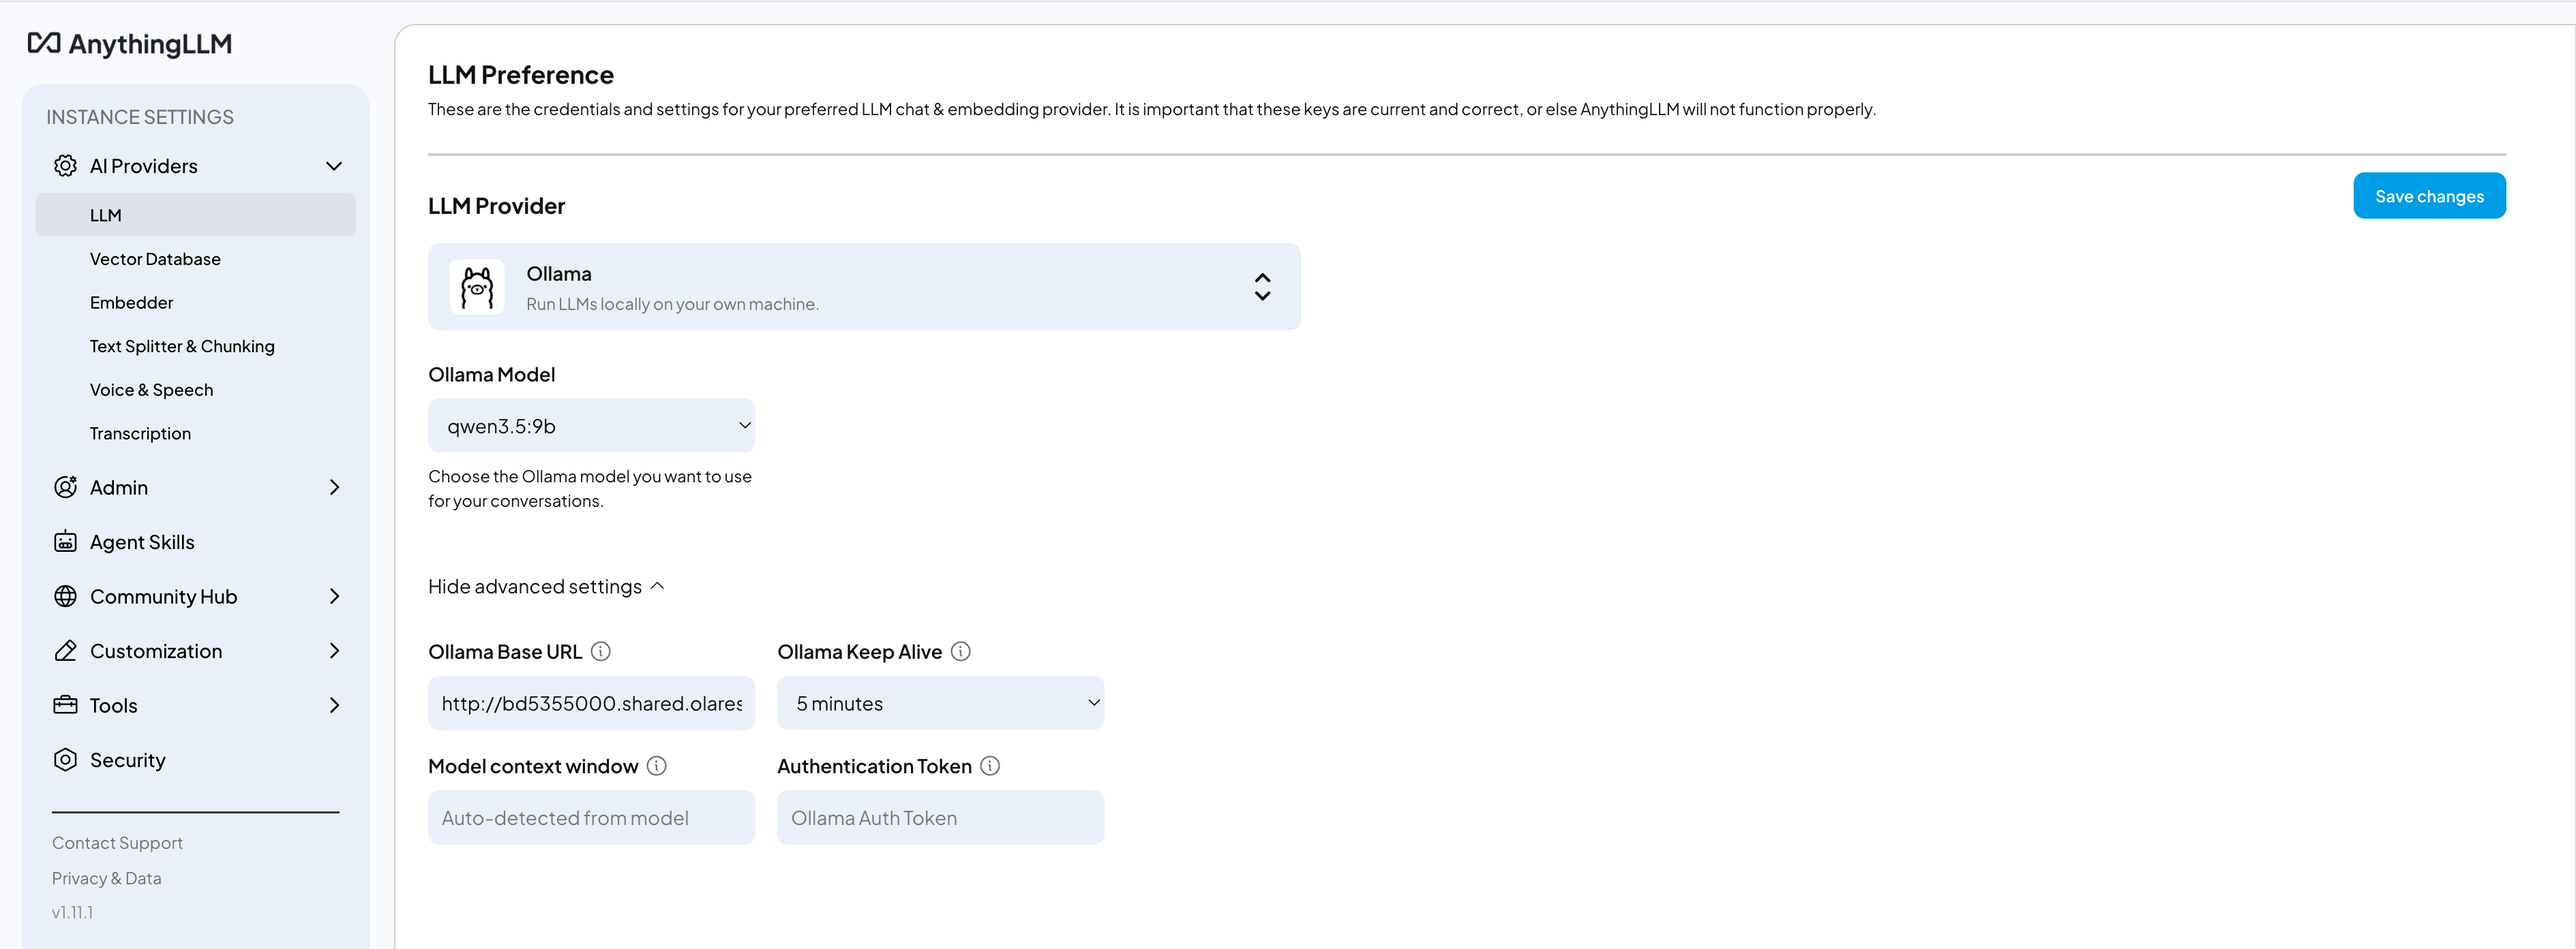
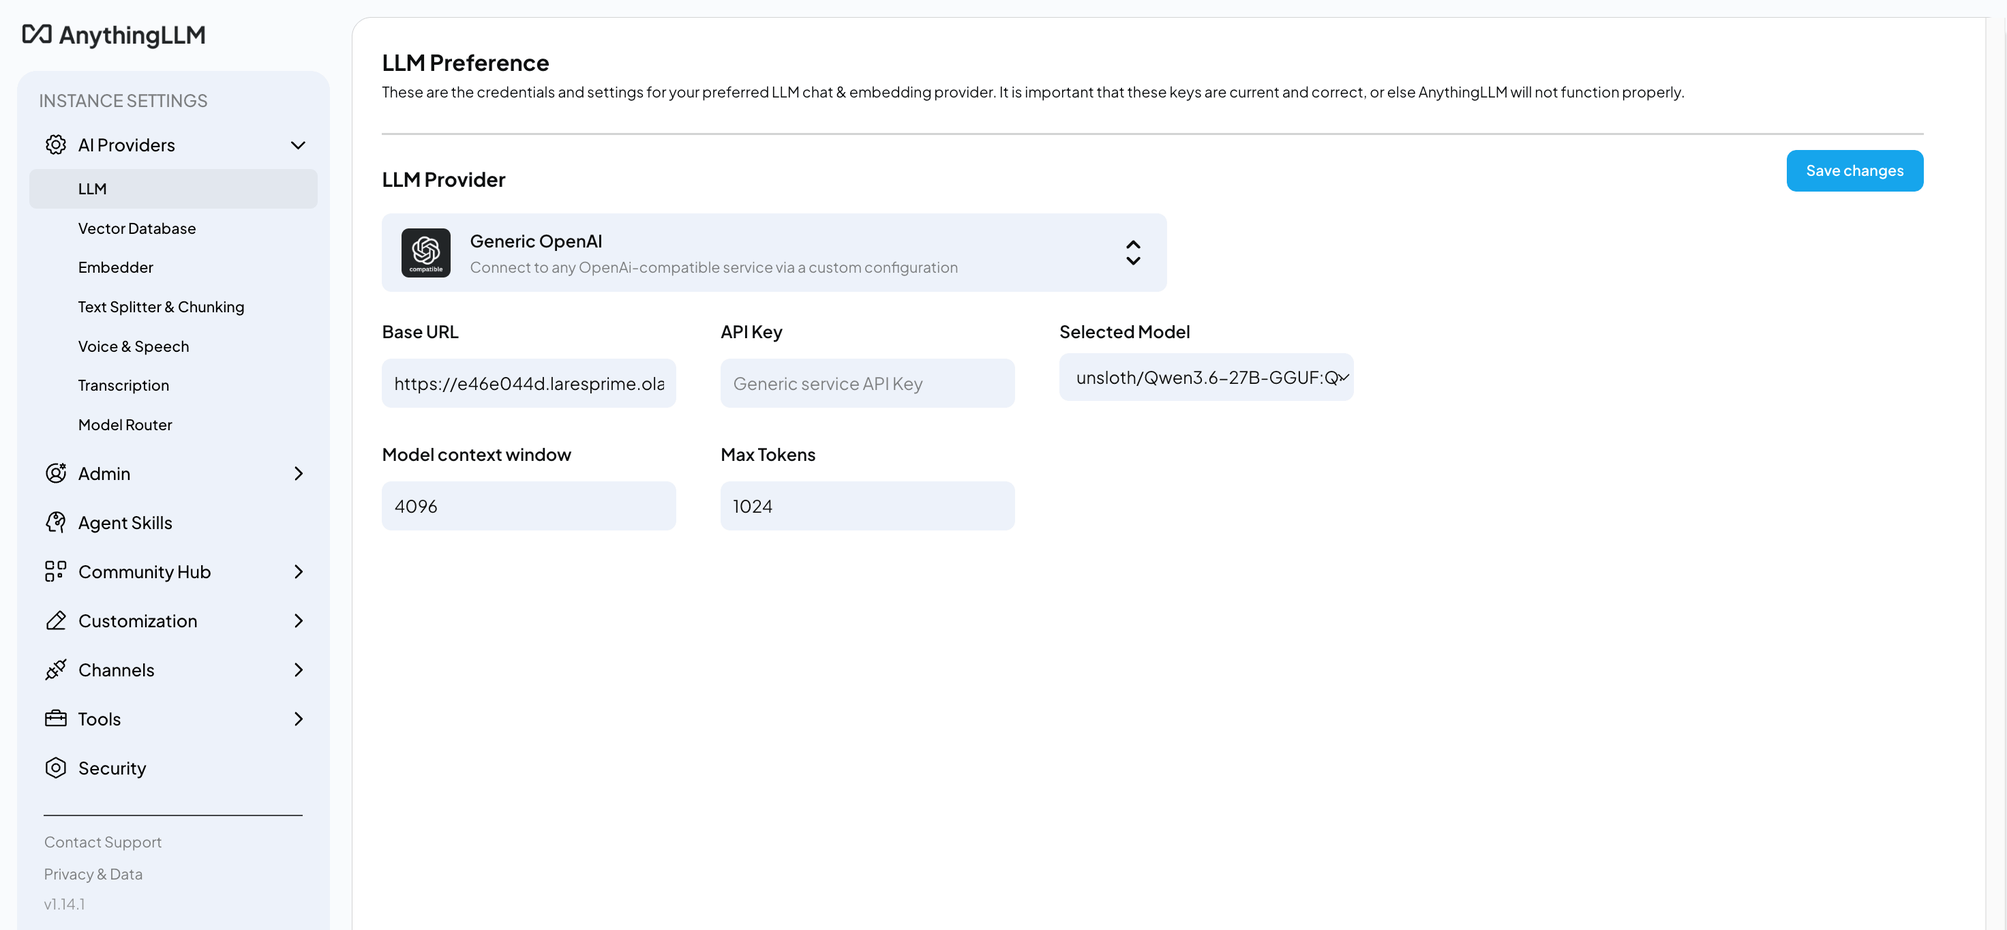
update screenshots and make changes for deerflow 2.0

diff --git a/docs/use-cases/deerflow2.md b/docs/use-cases/deerflow2.md
@@ -6,9 +6,9 @@ head:
   - - meta
     - name: keywords
       content: Olares, DeerFlow, AI agent, deep research, multi-agent, self-hosted, LLM
-doc_version: "1.1"
+doc_version: "1.2"
 app_version: "1.0.6"
-doc_updated: "2026-07-24"
+doc_updated: "2026-07-27"
 ---
 
 # Set up DeerFlow 2.0 for AI-powered research and tasks
@@ -16,8 +16,6 @@ doc_updated: "2026-07-24"
 DeerFlow is an open-source agent harness by ByteDance, built on LangGraph and LangChain. It orchestrates sub-agents, memory, and sandboxes to handle complex tasks through extensible skills.
 
 DeerFlow 2.0 is a ground-up rewrite of the original [DeerFlow](./deerflow.md). While version 1.0 was a deep research framework, version 2.0 is a general-purpose agent platform.
-
-This guide covers installing DeerFlow 2.0 on Olares and configuring it with a local model, using Qwen3.5 27B Q4_K_M (Ollama) as an example.
 
 ## Learning objectives
 
@@ -27,7 +25,16 @@ In this guide, you will learn how to:
 
 ## Prerequisites
 
-- A model app installed from Market with the model fully downloaded.
+Before you begin, you need:
+
+- An Olares device with sufficient disk space and memory.
+- The following model:
+
+  | Model type | Model | How to get it |
+  | :--- | :--- | :--- |
+  | Chat | Qwen3.6-27B (llama.cpp) | Install from Market |
+
+<!--@include: ../reusables/ai-service-connections.md#use-different-model-->
 
 ## Install DeerFlow 2.0
 
@@ -38,42 +45,33 @@ In this guide, you will learn how to:
 
 ## Configure the model
 
-DeerFlow 2.0 uses a `config.yaml` file for its core configuration. To connect it to your local model, add a model entry that points to your model app's shared endpoint.
+DeerFlow 2.0 uses a `config.yaml` file for its core configuration. To connect it to a local model, add the model and its connection details to this file.
 
-### Get the model endpoint and model name
+### Get model connection details
 
-1. Open the model app from Launchpad. The model name is displayed on the page (e.g., `qwen3.5:27b-q4_K_M`). Note it for later.
-   ![Get model name](/images/manual/use-cases/deerflow2-get-model-name.png#bordered)
+<!--@include: ../reusables/ai-service-connections.md#model-connection-overview-->
 
-2. Open Settings, then navigate to **Application** > your model app (e.g., **Qwen3.5 27B Q4_K_M (Ollama)**).
-3. Under **Shared entrances**, select the model app to view the endpoint URL.
+For Qwen3.6-27B (llama.cpp):
 
-   ![Get shared endpoint](/images/manual/use-cases/deerflow2-shared-entrance.png#bordered){width=70%}
-
-4. Copy the shared endpoint. For example:
-   ```text
-   http://94a553e00.shared.olares.com
-   ```
+<!--@include: ../reusables/ai-service-connections.md#get-model-connection-details-->
 
 ### Edit config.yaml
 
-1. Open Files and navigate to the DeerFlow 2.0 app data directory: `Application/Data/deerflowv2/config/`.
-
+1. Open Files and navigate to the DeerFlow 2.0 app data directory: `/Data/deerflowv2/config/`.
 2. Open `config.yaml`, and click <span class="material-symbols-outlined">edit_square</span> in the top-right corner to open the editor.
-
-3. Under the `models:` section, add your model configuration using the shared endpoint you copied. For example:
+3. Under the `models:` section, add the model configuration below. Replace `PASTE_BASE_URL_FROM_MODEL_CONSOLE` with the Base URL copied from the Qwen3.6-27B Model Console.
 
    ```yaml
    models:
-     - name: qwen3.5:27b-q4_K_M            # Unique identifier for the model
-       display_name: Qwen3.5 27B            # Name shown in the UI
-       use: langchain_openai:ChatOpenAI     # LangChain class for OpenAI-compatible APIs
-       model: qwen3.5:27b-q4_K_M           # Model ID
-       api_key: ollama                      # Use any non-empty text
-       base_url: http://94a553e00.shared.olares.com/v1  # Shared endpoint with /v1 suffix
-       supports_thinking: true              # Set to true if the model supports extended thinking
+     - name: unsloth/Qwen3.6-27B-GGUF:Q4_K_M      # Unique identifier for the model
+       display_name: Qwen3.6-27B      # Name shown in the UI
+       use: langchain_openai:ChatOpenAI      # LangChain class for OpenAI-compatible APIs
+       model: unsloth/Qwen3.6-27B-GGUF:Q4_K_M      # Model ID
+       api_key: olares      # Use any non-empty text
+       base_url: https://e46e044d.laresprime.olares.com/v1      # Base URL from MOdel Console
+       supports_thinking: true      # Set to true if the model supports extended thinking
    ```
-   ![Edit config.yaml](/images/manual/use-cases/deerflow2-edit-config-yaml.png#bordered)
+   ![Edit config.yaml](/images/manual/use-cases/deerflow2-edit-config-yaml1.png#bordered)
 
 4. Click <span class="material-symbols-outlined">save</span> to save the changes.
 
@@ -123,7 +121,7 @@ Once the model is configured, you can start using DeerFlow 2.0.
 If the agent fails to start or hangs:
 
 - **Check model compatibility**: Ensure the model you selected is properly configured in `config.yaml`. Verify the endpoint URL is correct.
-- **Check endpoint configuration**: Check that the API endpoint includes the `/v1` suffix.
+- **Check connection details**: Make sure the Model name and Base URL match the values displayed in the Model Console.
 
 ### How do I enable follow-up suggestions?
 

diff --git a/docs/zh/reusables/ai-service-connections.md b/docs/zh/reusables/ai-service-connections.md
@@ -1,21 +1,38 @@
 # AI 服务连接
 
 <!-- #region model-connection-overview -->
-:::info 模型连接的工作原理
-Olares 上的独立模型作为与客户端应用分开的服务运行。要连接两者，客户端通常需要准确的 **Model name**，以及与其支持的 API 格式相匹配的 **Base URL**。
+:::details 模型连接的工作原理
+Olares 上的独立模型作为与客户端应用分开的服务运行。要连接两者，客户端需要准确的 **Model name**，以及与其所需 API 格式相匹配的 **Base URL**。
 
-你可以从模型控制台获取这些值。有关更详细的说明，请参阅[连接 AI 应用](/zh/manual/best-practices/connect-ai-apps.md)。
+你可以从模型控制台获取这两个值。有关更多信息，可参阅[连接 AI 应用](/zh/manual/best-practices/connect-ai-apps.md)。
 :::
 <!-- #endregion model-connection-overview -->
 
 <!-- #region get-model-connection-details -->
-1. 从启动台打开模型应用。模型控制台会自动打开。
-2. 如果模型开始下载，请等待 **Model** 显示 **READY**，且 **Engine** 显示 **RUNNING**。
-3. 在 **Service status** 下，选择 **Apps in Olares**。找到客户端支持的 API 格式，然后按显示内容原样复制 **Model name** 和对应的 **Base URL**。
+1. 从启动台打开模型应用。其模型控制台会自动打开。
+2. 等待 **Model** 显示 **READY**，且 **Engine** 显示 **RUNNING**。
+3. 在 **Service status** 下，确保已选择 **Apps in Olares**。按显示内容原样复制 **Model name** 和 **Base URL**。
+
+   ![Qwen3.6-27B 模型控制台](/images/one/qwen3.6-27b-model-console.png#bordered){width=90%}
 <!-- #endregion get-model-connection-details -->
 
+<!-- #region use-different-model -->
+:::details 可选：使用其他模型
+你也可以选择不同大小的模型，或改用其他模型提供商：
+
+- 从应用市场安装其他模型应用。
+- 通过[引擎基座应用](llm-base-apps.md)创建模型实例，使用自己的模型。
+
+如果 AI Agent 应用已安装 [Olares CLI](../developer/cli-install.md) 和 [Agent Skills](../developer/cli-agent-skills.md)，可以让它部署模型并跳过手动设置。例如：
+
+```plain
+使用 Ollama 引擎基座在我的 Olares 上部署 qwen3.5:9b。
+```
+:::
+<!-- #endregion use-different-model -->
+
 <!-- #region app-endpoint-overview -->
-:::info 应用端点的工作原理
-当客户端连接另一个 Olares 应用时，需要使用该应用的端点作为网络地址。如果应用公开了多个端点，请选择与客户端所需功能或协议相匹配的端点。
+:::details 应用端点（endpoint）如何工作
+当客户端连接另一个 Olares 应用时，会使用该应用的端点作为网络地址。如果应用提供多个端点，请选择与客户端所需功能或协议相匹配的端点。
 :::
 <!-- #endregion app-endpoint-overview -->

diff --git a/docs/use-cases/anythingllm.md b/docs/use-cases/anythingllm.md
@@ -60,9 +60,9 @@ Configure the chat model and embedding provider. These settings become the syste
 
 1. Open AnythingLLM from Launchpad.
 2. On the home page, click the **Open settings** icon in the bottom-left.
-3. In the left sidebar, select **AI Providers** > **LLM**, and then select **OpenAI** as the LLM provider.
-4. In **OpenAI Base URL**, paste the Base URL from the Qwen3.6-27B (llama.cpp) Model Console.
-5. In **OpenAI Model**, enter `unsloth/Qwen3.6-27B-GGUF:Q4_K_M`.
+3. In the left sidebar, select **AI Providers** > **LLM**, and then select **Generic OpenAI** as the LLM provider.
+4. In **Base URL**, paste the Base URL from the Qwen3.6-27B (llama.cpp) Model Console.
+5. In **Selected Model**, select `unsloth/Qwen3.6-27B-GGUF:Q4_K_M`.
 
    ![Configure chat model](/images/manual/use-cases/anythingllm-configure-chat-model.png#bordered)
 
@@ -70,8 +70,12 @@ Configure the chat model and embedding provider. These settings become the syste
 
 ### Set up the embedding model
 
-1. In the left sidebar, select **Embedder**, and then select **all-MiniLM-L6-v2** as the embedding provider.
-2. Click **Save changes**. The "Embedding preferences saved successfully" message is displayed.
+1. In the left sidebar, select **Embedder**, and then select **AnythingLLM Embedder** as the embedding provider.
+2. In **Model Preference**, select **all-MiniLM-L6-v2** as the embedding model.
+
+   ![Configure embedding model](/images/manual/use-cases/anythingllm-configure-embedding-model.png#bordered)
+
+3. Click **Save changes**. The "Embedding preferences saved successfully" message is displayed.
 
 ## Create a workspace
 
